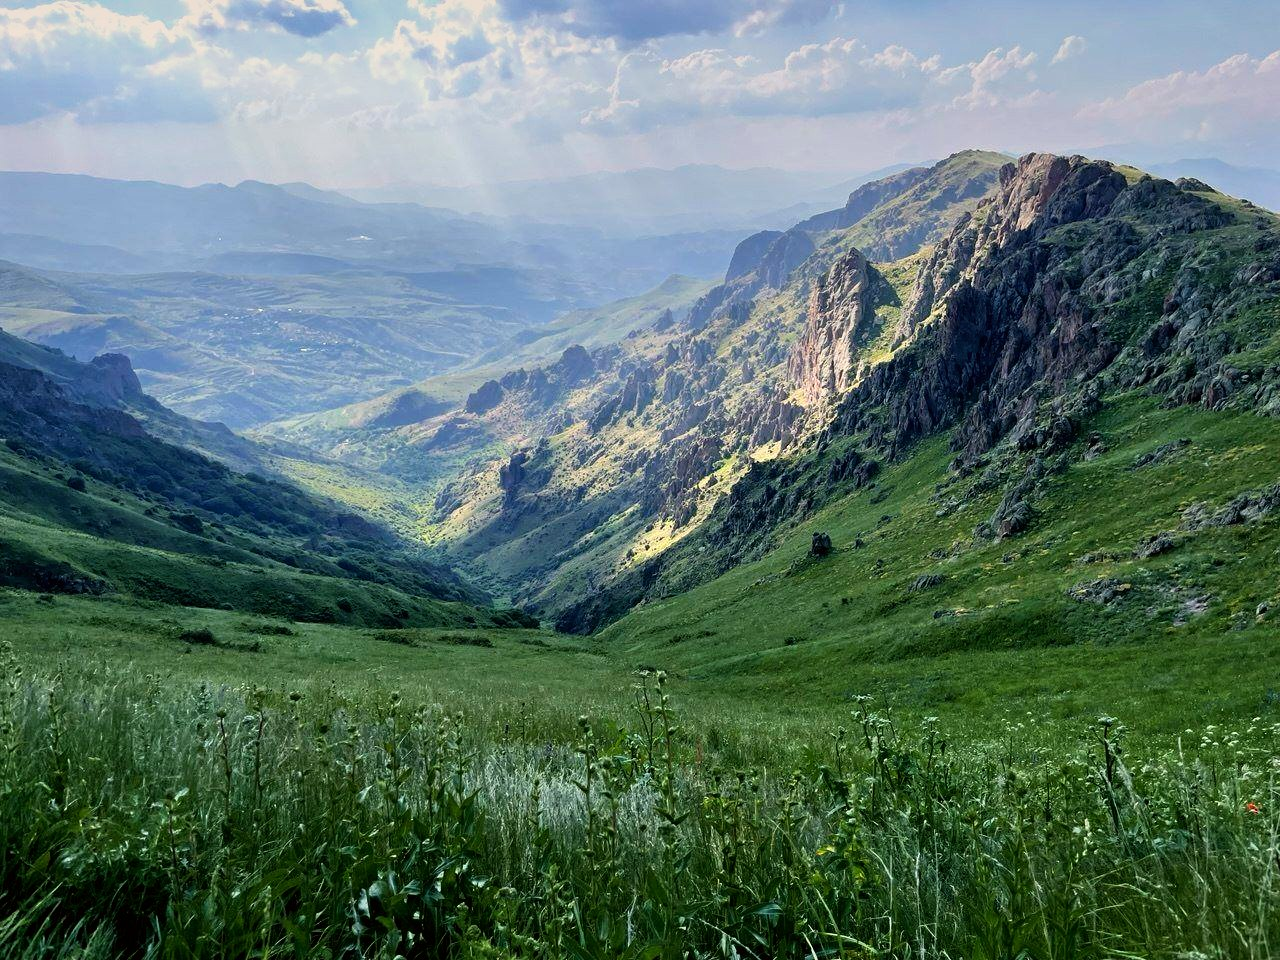
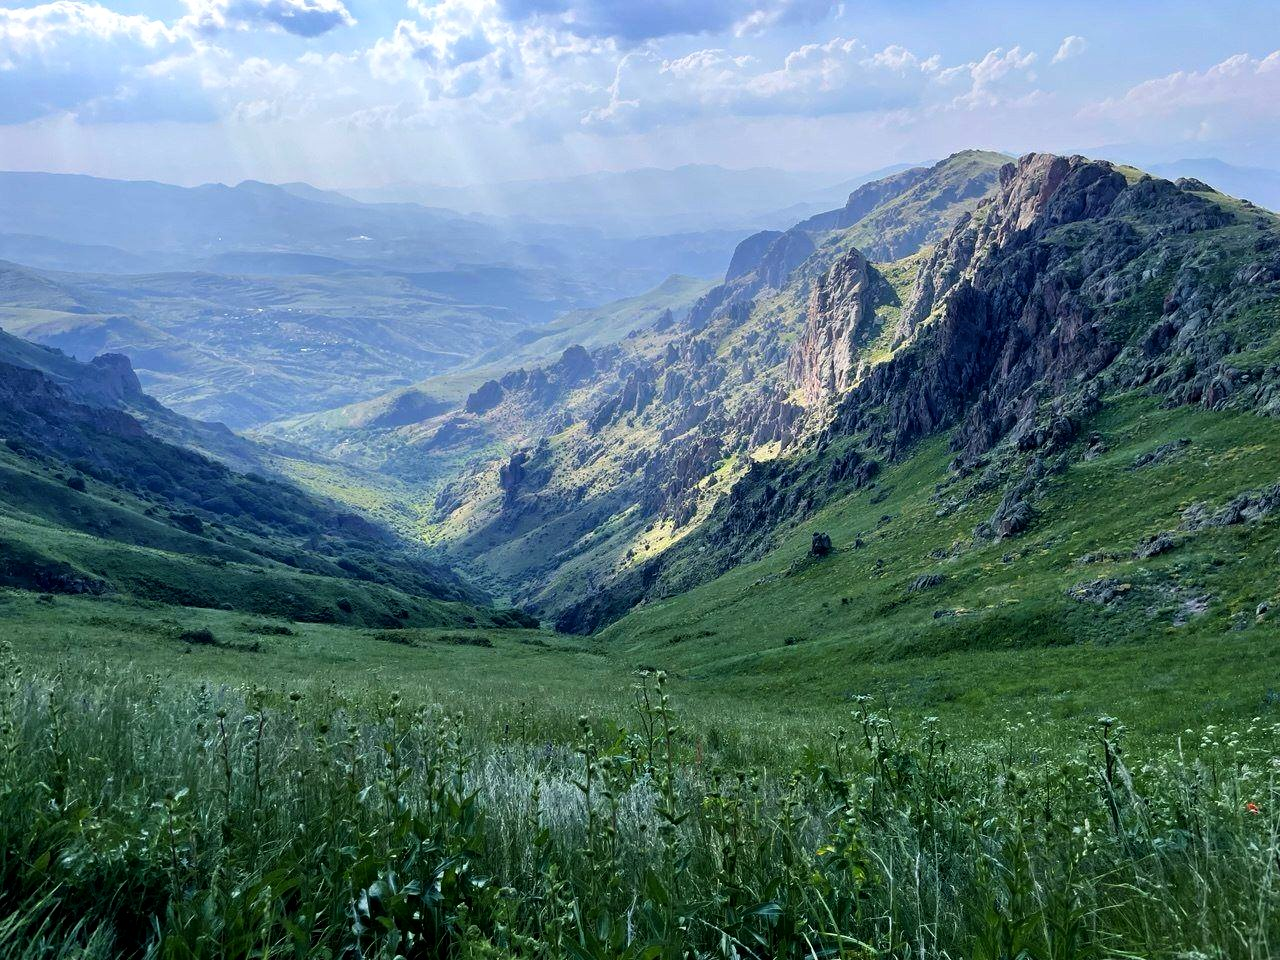
Trekking: neutral colour grade for hero photo, PDF first page back to original layout
Claude-Session: https://claude.ai/code/session_01UELaXMTzAdsPfTaFbSf8NC

Changed region(s): [[0.0, 0.0, 1.0, 0.2188]]

diff --git a/trekking/index.html b/trekking/index.html
@@ -347,17 +347,8 @@ html[lang] .sl span,html[lang] .sl b{font-family:Oswald,"Arial Narrow",Arial,san
   .eyebrow,.h2,.mark{break-after:avoid}
   .route,.inc-grid,.price .wrap,.guides{break-inside:avoid}
   .eyebrow{display:block}
-  /* PDF cover: full-page photo */
-  .top{position:absolute}
-  .hero{min-height:0}
-  .hero-photos{left:0!important}
-  .hero-photos img{object-position:62% 50%!important}
-  .hero-photos::after{background:linear-gradient(180deg,rgba(10,10,9,.72) 0%,rgba(10,10,9,0) 18%),linear-gradient(90deg,rgba(18,18,18,.92) 0%,rgba(18,18,18,.55) 38%,rgba(18,18,18,0) 62%),linear-gradient(0deg,rgba(18,18,18,.9) 0%,rgba(18,18,18,0) 35%)!important}
-  .hero .wrap{min-height:1372px;padding-block:200px 56px!important;justify-content:flex-end}
-  .hero h1{font-size:150px}
-  .hero .sub{font-size:24px;max-width:34ch}
-  html[lang="hy"] .hero .wrap{min-height:1329px}
-  .facts{break-after:page}
+  .hero .wrap{min-height:0;padding-block:190px 44px!important}
+  .hero-photos::after{background:linear-gradient(90deg,#121212 0%,rgba(18,18,18,.55) 16%,rgba(18,18,18,0) 42%)!important}
   #motion{padding-top:40px}
   .mo-grid img{aspect-ratio:4/3}
   .mo-grid{margin-top:20px}

diff --git a/tools/build_trekking.py b/tools/build_trekking.py
@@ -205,17 +205,8 @@ CSS_EXTRA = r"""
   .eyebrow,.h2,.mark{break-after:avoid}
   .route,.inc-grid,.price .wrap,.guides{break-inside:avoid}
   .eyebrow{display:block}
-  /* PDF cover: full-page photo */
-  .top{position:absolute}
-  .hero{min-height:0}
-  .hero-photos{left:0!important}
-  .hero-photos img{object-position:62% 50%!important}
-  .hero-photos::after{background:linear-gradient(180deg,rgba(10,10,9,.72) 0%,rgba(10,10,9,0) 18%),linear-gradient(90deg,rgba(18,18,18,.92) 0%,rgba(18,18,18,.55) 38%,rgba(18,18,18,0) 62%),linear-gradient(0deg,rgba(18,18,18,.9) 0%,rgba(18,18,18,0) 35%)!important}
-  .hero .wrap{min-height:1372px;padding-block:200px 56px!important;justify-content:flex-end}
-  .hero h1{font-size:150px}
-  .hero .sub{font-size:24px;max-width:34ch}
-  html[lang="hy"] .hero .wrap{min-height:1329px}
-  .facts{break-after:page}
+  .hero .wrap{min-height:0;padding-block:190px 44px!important}
+  .hero-photos::after{background:linear-gradient(90deg,#121212 0%,rgba(18,18,18,.55) 16%,rgba(18,18,18,0) 42%)!important}
   #motion{padding-top:40px}
   .mo-grid img{aspect-ratio:4/3}
   .mo-grid{margin-top:20px}
